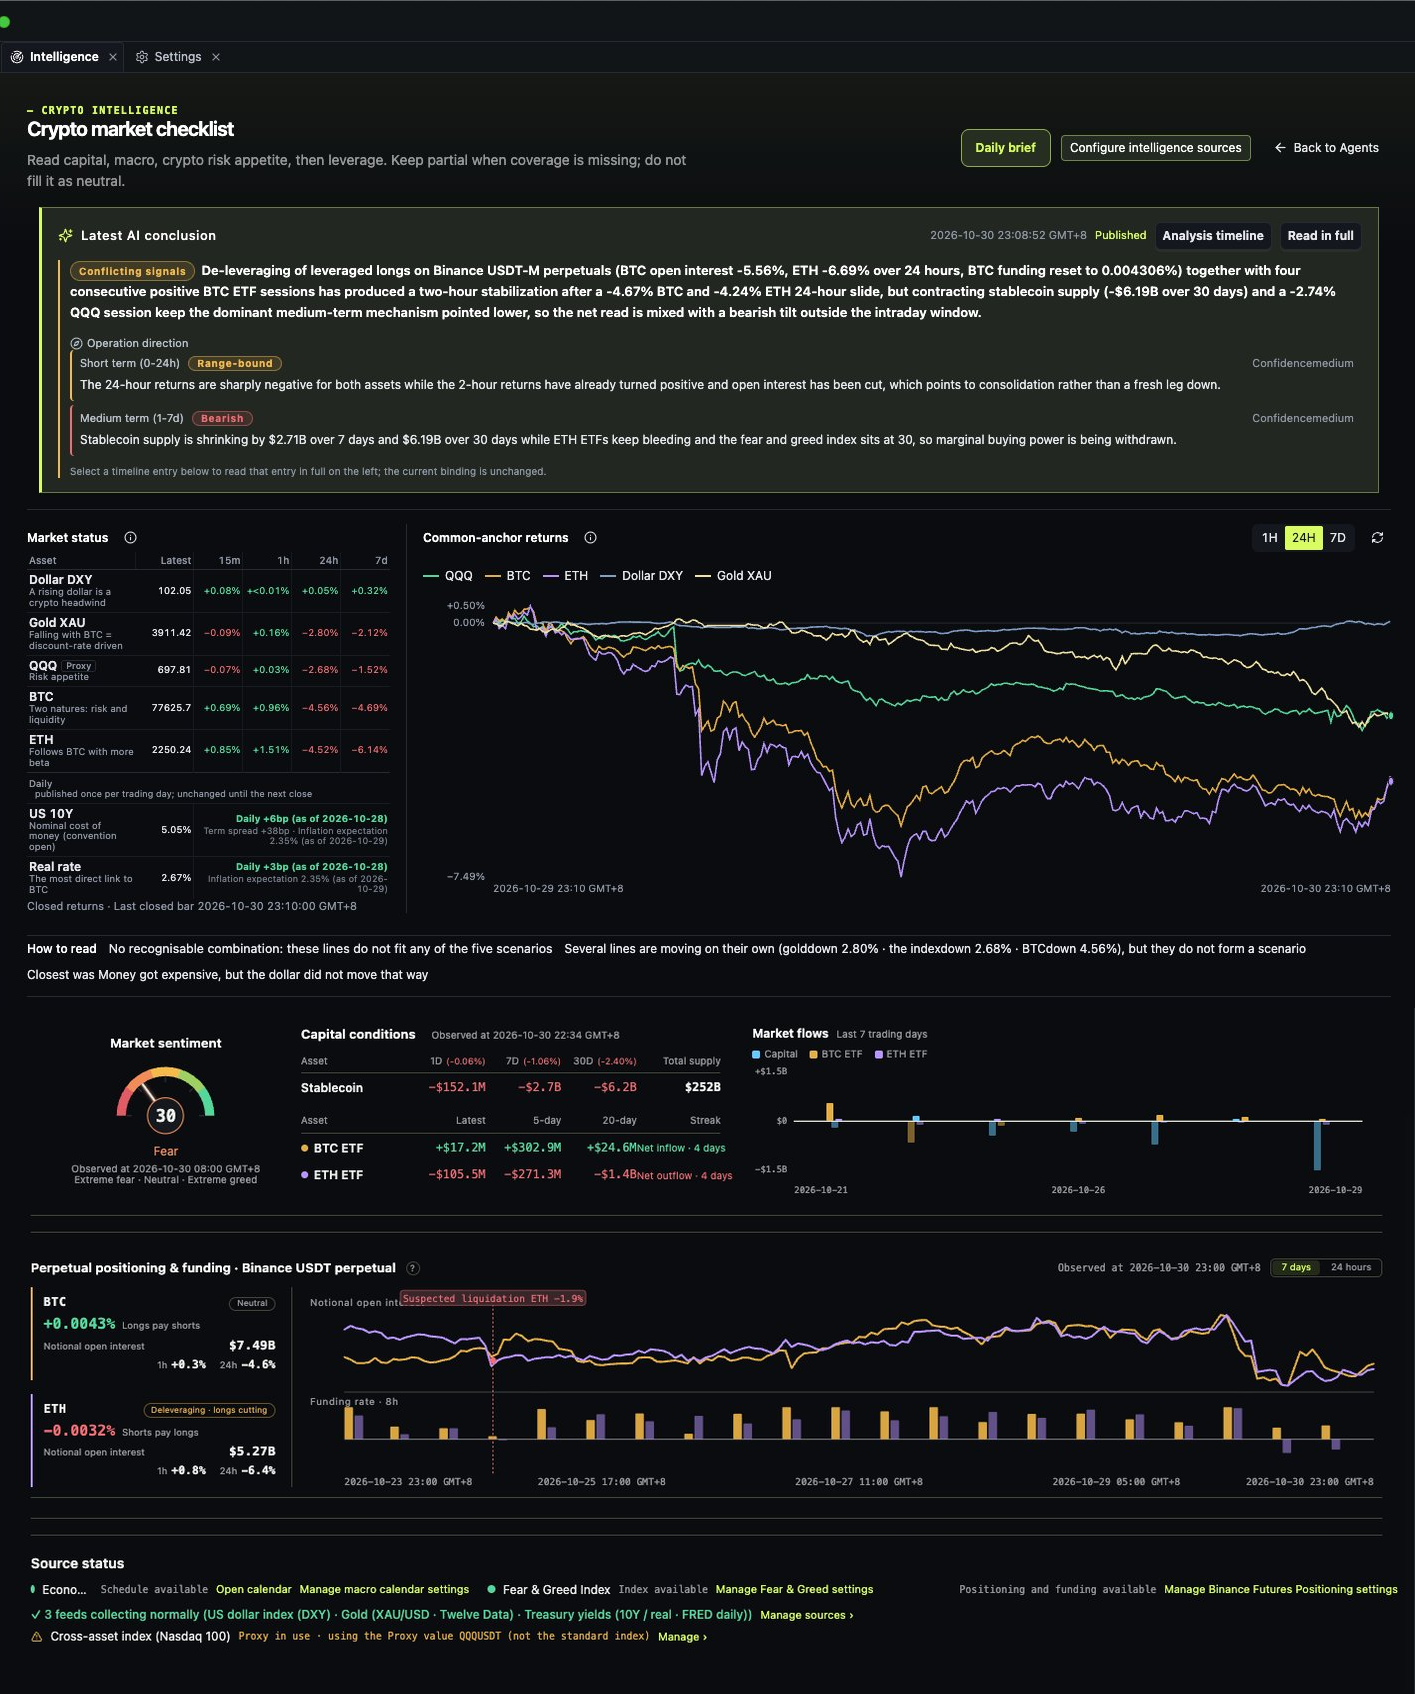
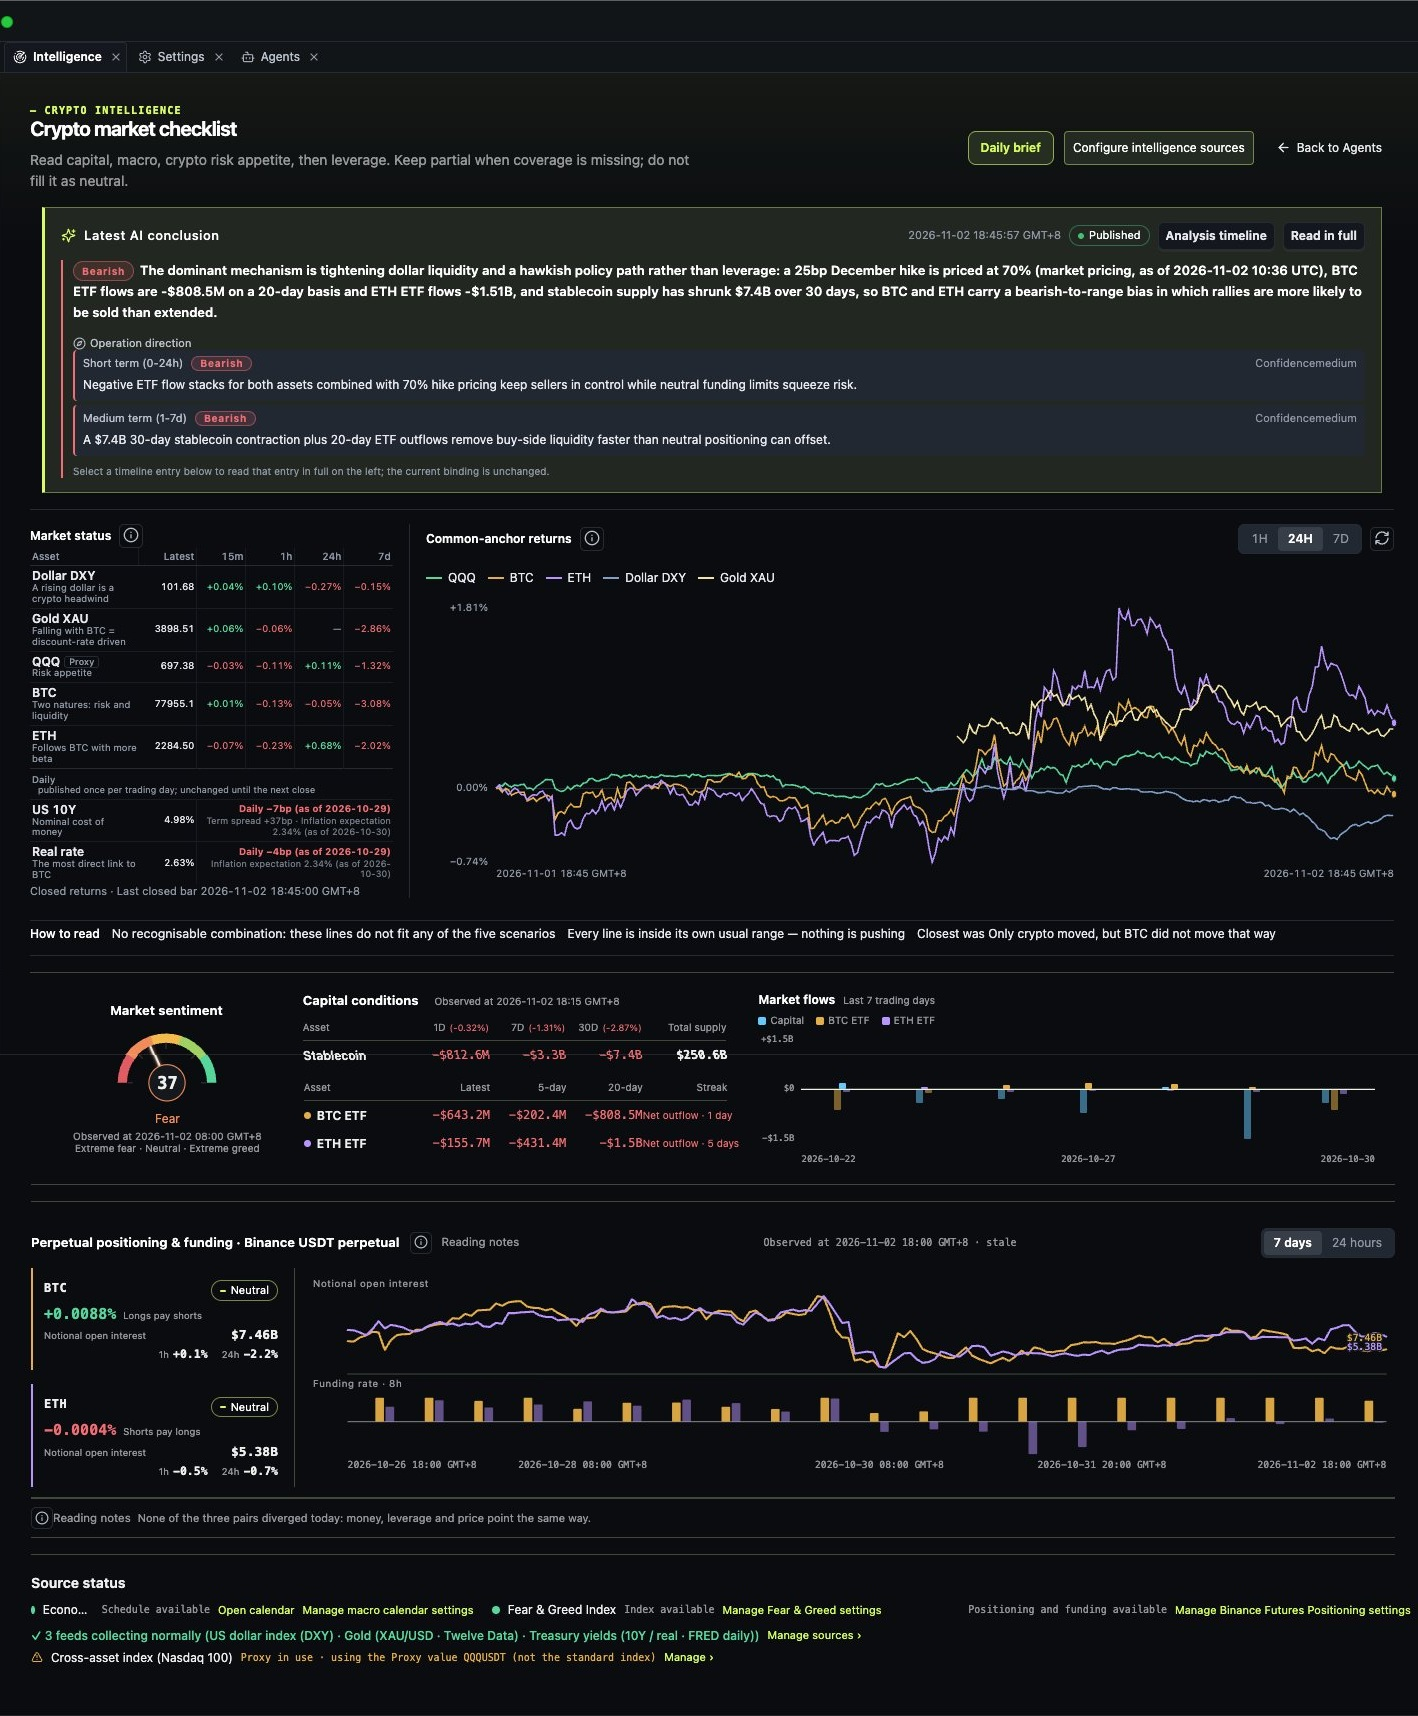
docs(screenshots): replace the English dashboard with the current panels
The English pair was captured on 10-30, before the policy path, cross-panel
divergence and leverage panels were reworked, so it no longer matched what the
app renders. The replacement is two captures joined at the bottom edge of the
first one, so the right column keeps the policy path, what-to-watch and the whole
key-sentiment panel including its footer.

The alignment was measured, not guessed: the sentiment header found by template
match sits at (54, 972), 28 px lower than a plain row correlation suggested, and
that first estimate is what put a duplicated table header across the join. The
content column continues from the second capture at its row 83.

The README alt text and caption named a watchlist the dashboard no longer has;
they now describe the policy path, calendar and sentiment rail that it does.

diff --git a/README.md b/README.md
@@ -46,11 +46,11 @@ overnight, and what to watch today. It can be generated on a schedule or on dema
 keeps its source and its cutoff time.
 
 <p align="center">
-  <img src="./docs/assets/screenshots/dashboard-window-en.png" alt="MacroBay dashboard: crypto market checklist, market status, cross-asset returns, capital conditions, sentiment, funding and the watchlist" width="100%">
+  <img src="./docs/assets/screenshots/dashboard-window-en.png" alt="MacroBay dashboard: AI conclusion, market status, common-anchor returns, market sentiment and capital conditions, perpetual positioning and funding, source status, and the policy path and key sentiment rail" width="100%">
 </p>
 
 <p align="center">
-  <sub>The whole desk on one page — AI conclusion, market status, cross-asset returns, capital conditions, sentiment and funding. <a href="./docs/assets/screenshots/demo-en.gif">Watch the 38-second demo</a>.</sub>
+  <sub>The whole desk on one page — AI conclusion, market status, cross-asset returns, capital conditions, sentiment and funding, with the policy path, calendar and sentiment in the right column. <a href="./docs/assets/screenshots/demo-en.gif">Watch the 38-second demo</a>.</sub>
 </p>
 
 ## Download
